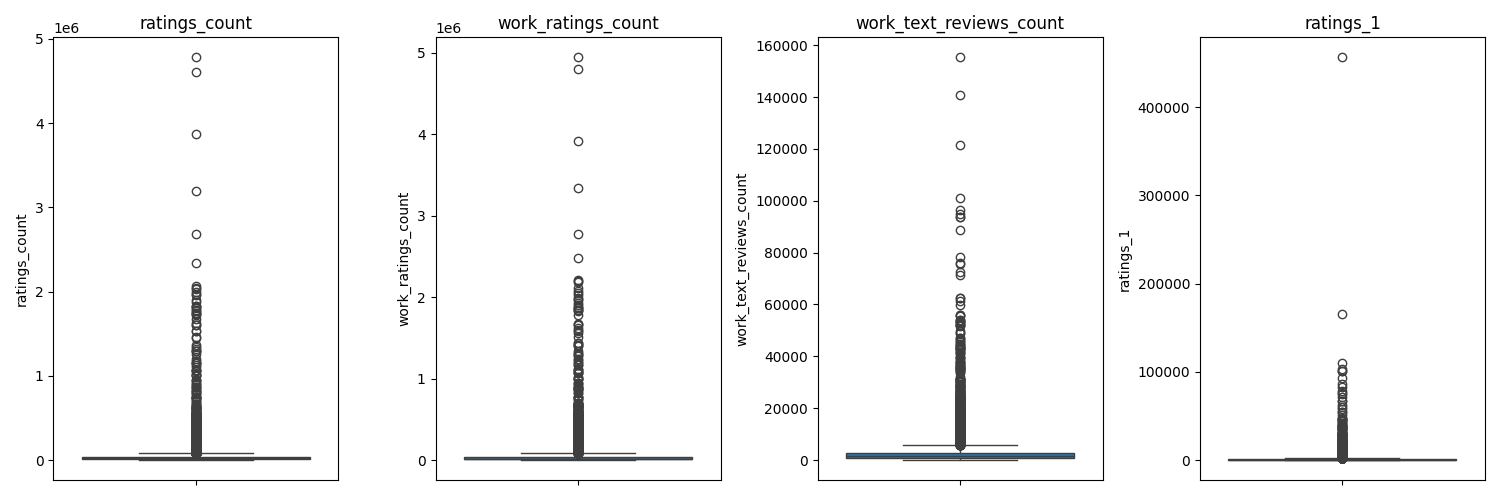
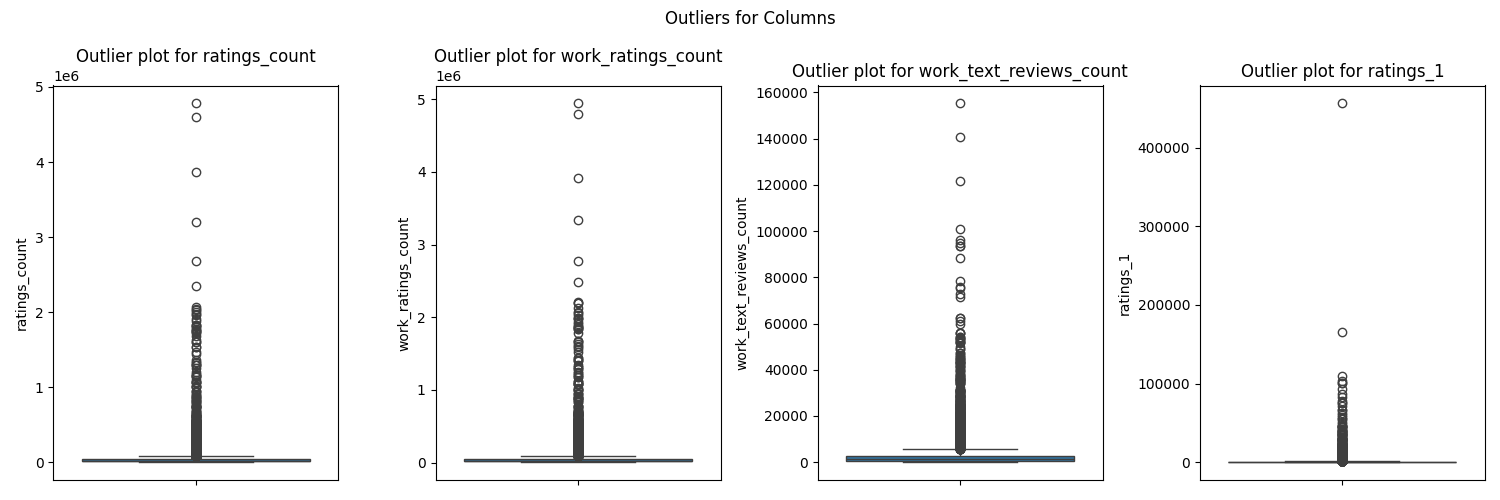
Updated code and new output

diff --git a/autolysis.py b/autolysis.py
@@ -139,10 +139,11 @@ def plot_outliers(df, output_dir, col_per_plot=4):
         for j, col in enumerate(columns[i:min(i + cols_per_plot, num_plots)]):
             if num_plots <= cols_per_plot:
                 sns.boxplot(y=df[col], ax=axes[j])
-                axes[j].set_title(col)
+                axes[j].set_title(f"Outlier plot for {col}")
             else:
                 sns.boxplot(y=df[col], ax=axes[j])
-                axes[j].set_title(col)
+                axes[j].set_title(f"Outlier plot for {col}")
+            plt.suptitle("Outliers for Columns")
         plt.tight_layout()
         plt.savefig(f"{output_dir}/outliers_{i//cols_per_plot + 1}.png")
         files.append(f"outliers_{i//cols_per_plot + 1}.png")
@@ -191,7 +192,7 @@ def generate_correlation_heatmap(df, output_dir, output_file='correlation_heatma
     # Create the heatmap
     plt.figure(figsize=figsize)
     sns.heatmap(corr_matrix, annot=True, fmt=".2f", cmap='coolwarm', cbar=True)
-
+    plt.title("Correlation Heatmap")
     # Save the heatmap
     output_location = os.path.join(output_dir, output_file)
     plt.savefig(output_location, dpi=300, bbox_inches='tight')

diff --git a/happiness/README.md b/happiness/README.md
@@ -1,6 +1,6 @@
 # Happiness Dataset Analysis 
 ## Data Description
-The dataset consists of various countries and their respective data for different years. It includes a measure known as the "Life Ladder," which likely assesses subjective well-being or happiness. Other columns capture economic and social indicators, such as "Log GDP per capita," which indicates the economic status of each country, and "Social support," reflecting community and societal contributions to well-being. Additionally, it includes health metrics like "Healthy life expectancy at birth." Factors influencing personal freedom and societal perceptions, such as "Freedom to make life choices," "Generosity," and "Perceptions of corruption," are also present. Lastly, the dataset features columns for emotional indicators, represented by "Positive affect" and "Negative affect," which provide insights into the overall psychological well-being of the population in each country and year. Overall, this dataset is geared towards analyzing the relationship between various factors and overall life satisfaction across different nations and time periods.
+The dataset consists of various indicators related to well-being and quality of life across different countries and years. The 'Country name' column identifies the country for each row of data. The 'year' column specifies the time period for the recorded metrics. 'Life Ladder' is likely a measure of subjective well-being or happiness. 'Log GDP per capita' reflects the economic performance of a country on a per-person basis, adjusted for inflation. 'Social support' indicates the perceived availability of supportive social networks. 'Healthy life expectancy at birth' measures the average number of years a newborn is expected to live in good health. Indicators like 'Freedom to make life choices' and 'Generosity' assess individual freedoms and altruistic behavior, while 'Perceptions of corruption' reflects trust in government and institutions. Lastly, 'Positive affect' and 'Negative affect' gauge emotional experiences, contributing to an overall picture of well-being in the context of social, economic, and psychological factors. The dataset can be useful for analyzing trends in happiness and quality of life across different regions and times.
 ## Data Overview
 ### Summary Statistics
 | Stat | year | Life Ladder | Log GDP per capita | Social support | Healthy life expectancy at birth | Freedom to make life choices | Generosity | Perceptions of corruption | Positive affect | Negative affect |
@@ -53,38 +53,40 @@ Duplicate Rows: 0
 
 ![alt_text](correlation_heatmap.png)
 ## Analysis Recommendations
-To gain meaningful insights from the dataset with the provided summary statistics, the data analyst can conduct a variety of analyses. Here are 10 recommendations:
+Certainly! Here are 10 analysis recommendations that a data analyst could perform to gain insights from the provided dataset:
 
-1. **Correlation Analysis**: Examine the correlation between the variables, particularly between 'Life Ladder' and other factors such as 'Log GDP per capita', 'Social support', and 'Healthy life expectancy'. This can help identify which factors most strongly relate to life satisfaction.
+1. **Descriptive Statistics**: Start with calculating the mean, median, standard deviation, and range for all numerical variables (e.g., Life Ladder, Log GDP per capita). This will provide an overview of the data distribution.
 
-2. **Regression Analysis**: Perform multiple regression analysis to understand the predictive power of different variables (e.g., 'Log GDP per capita', 'Social support') on 'Life Ladder'. This can help quantify the strength and direction of relationships.
+2. **Correlation Analysis**: Determine the correlation between various factors (e.g., Life Ladder, Log GDP per capita, and Social support) to identify relationships and potential predictors of life satisfaction.
 
-3. **Trend Analysis by Year**: Analyze how the 'Life Ladder' scores have changed over the years. This can involve visualizing trends over time using line plots, which might reveal significant improvements or declines in life satisfaction.
+3. **Time Series Analysis**: Analyze trends over the years for each country to see how the Life Ladder and other variables have changed over time. This can be performed using line plots.
 
-4. **Country Comparisons**: Compare averages of key metrics (e.g., 'Life Ladder', 'Log GDP per capita') across countries to understand which countries perform better or worse and may provide insights into socio-economic status.
+4. **Comparative Analysis**: Compare the Life Ladder across different countries or regions to identify which countries score higher or lower, and explore possible reasons behind these differences (e.g., socioeconomic factors).
 
-5. **Cluster Analysis**: Implement clustering techniques (like K-means or hierarchical clustering) to group countries with similar profiles based on the various indicators. This can identify patterns or forms of groupings among the countries.
+5. **Group By Analysis**: Use group-by functionality to analyze the average Life Ladder score based on categorical features such as country or year, to find insights into how these categories impact life satisfaction.
 
-6. **Impact of Freedom and Generosity**: Investigate how 'Freedom to make life choices' and 'Generosity' contribute to well-being as measured by 'Life Ladder'. This could involve focused correlation or regression analyses on these variables.
+6. **Regression Analysis**: Conduct linear regression to explore how factors like Log GDP per capita, Social support, and Freedom to make life choices predict the Life Ladder score.
 
-7. **Life Ladder Segmentation**: Create segments of countries based on 'Life Ladder' scores (e.g., low, medium, high) and analyze the characteristics of each segment to identify key determinants of higher satisfaction.
+7. **Heatmaps**: Create heatmaps to visualize the correlations between different attributes to identify any strong relationships visually among numerical variables.
 
-8. **Sentiment Analysis**: If applicable, incorporate qualitative data or open responses related to life satisfaction and add a qualitative analysis to complement numerical data insights.
+8. **ANOVA Tests**: If there are distinct groups/categories (e.g., different regions), perform ANOVA tests to see if there are statistically significant differences in Life Ladder scores between these groups.
 
-9. **Visualizations**: Use data visualization tools to create dashboards that showcase the relationships among the variables, such as scatter plots, heat maps, and bar charts, making the findings more accessible.
+9. **Cluster Analysis**: Use clustering techniques (e.g., K-means) to segment countries based on similar characteristics, which could help to identify groups with similar life qualities or socioeconomic factors.
 
-10. **Geospatial Analysis**: If latitude and longitude data is available, perform geospatial analysis to visualize the relationships of life satisfaction with geographical factors, identifying regional trends or anomalies.
+10. **Sentiment/Feature Analysis**: Based on Positive affect and Negative affect, analyze how emotional well-being relates to life satisfaction and what factors contribute to these feelings across different demographics or regions.
 
-These analyses, alone or combined, can provide comprehensive insights into the factors influencing life satisfaction across different countries and years, guiding policy recommendations or further research directions.
+These analyses would provide a comprehensive understanding of how various factors influence life satisfaction and allow the analyst to derive meaningful insights from the dataset.
 ## Data Story
-In a comprehensive analysis of well-being across multiple dimensions from 2005 to 2023, we examined a dataset of 2363 observations that reveals intriguing patterns in life satisfaction, economic conditions, and social factors. The 'Life Ladder', a key indicator of subjective well-being, averaged at 5.48 on a scale where higher values indicate greater life satisfaction. Although the mean score suggests moderate well-being, there is considerable variation, as evidenced by a standard deviation of 1.13 and a minimum value of just 1.28, highlighting a significant disparity in life satisfaction across different populations.
+In exploring the dataset that spans from 2005 to 2023, we uncover a rich tapestry of insights tied to well-being and societal factors across various regions. The average Life Ladder score, which reflects overall life satisfaction, stands at approximately 5.48, suggesting that while many individuals report a moderate sense of well-being, there is significant variability, with scores ranging from a low of 1.28 to a high of 8.02. This variability indicates divergent experiences of quality of life. 
 
-Economic factors are also crucial in understanding life satisfaction. The 'Log GDP per capita' indicates an average economic output per person at 9.40, with an impressive maximum of 11.68 suggesting that wealthier nations likely report higher life satisfaction levels. This is supported by the relationship between economic prosperity and social support, which has a high average score of 0.81. However, with a minimum of 0.23, some individuals lack adequate social support, impacting their overall well-being.
+Looking at economic prosperity, measured by Log GDP per capita, the average value of about 9.40 correlates with life satisfaction; however, the range from 5.53 to 11.68 reveals stark economic disparities across nations. Higher economic metrics often correspond with improved quality of life as indicated by a positive relationship between GDP and life satisfaction.
 
-Health, represented by 'Healthy life expectancy at birth' with a mean of 63.4 years, exemplifies the importance of longevity in life satisfaction. Here too, we see a spread, with some regions having life expectancies as low as 6.72 years, reflecting potential health crises or systemic issues that need addressing.
+Social support emerges as a crucial determinant of well-being, with the average score being 0.81. Strong social networks appear to enhance life satisfaction, highlighting the importance of community and interpersonal relationships. Additionally, the 'Freedom to make life choices' score, averaging 0.75, underscores how personal freedom contributes to a sense of control and fulfillment in life.
 
-The dimension of freedom to make life choices is encapsulated in an average score of 0.75, demonstrating a moderate sense of autonomy among the population, yet indicating that the freedom to make life choices is not universally accessible. Coupled with perceptions of corruption at an average of 0.74, these statistics indicate that societal structures play a significant role in shaping individual experiences of happiness and freedom.
+Healthy life expectancy stands at approximately 63.4 years, which, while promising, suggests room for improvement in health systems worldwide. The data reveals discrepancies in health outcomes that align with economic and social factors.
 
-Another noteworthy aspect of the data is the measure of 'Generosity', which surprisingly has a mean close to zero (0.0001), suggesting that societal giving may not be as pronounced as one might hope. Meanwhile, 'Positive affect' averaged 0.65, indicating that most individuals maintain a positive outlook on life, although this is balanced against a negative affect average of 0.27, revealing the complexity of emotional well-being.
+Generosity and perceptions of corruption present a dual perspective on societal trust and altruism, with generosity averaging close to zero, indicating a general tendency toward self-interest, whereas perceptions of corruption average around 0.74. This suggests that many individuals feel corruption is a significant issue, potentially impacting trust in socio-economic systems.
 
-Overall, this dataset paints a multifaceted portrait of well-being, suggesting that while certain areas like social support and economic factors show positive trends, significant disparities and challenges remain. The interplay between economic stability, social factors, health, and individual freedoms creates a rich tapestry of experiences and implications for policy and social initiatives aimed at enhancing life satisfaction.
+Moreover, the emotional landscape is captured through measures of positive and negative affect. On average, individuals report a positive affect score of 0.65, yet negative affect, with an average of 0.27, indicates that while many experience positive emotions, a notable portion of the population grapples with negative feelings. 
+
+In conclusion, this dataset not only reveals the average sentiments around life satisfaction but also highlights the multifaceted nature of well-being. A complex interplay between economic conditions, social structures, health, freedom, and emotional experiences shapes people's lives around the globe, offering a poignant reminder of the diverse factors that influence human happiness.

diff --git a/goodreads/README.md b/goodreads/README.md
@@ -1,8 +1,12 @@
 # Goodreads Dataset Analysis 
 ## Data Description
-The dataset appears to be a collection of information about books, likely sourced from a platform like Goodreads. Each entry is identified by a unique `book_id` and is associated with other identifiers such as `goodreads_book_id`, `best_book_id`, and `work_id`. It includes metadata about the books, such as the `authors`, `original_title`, and `title`. The dataset also captures publication details, specifically the `original_publication_year` and `language_code`. 
+The dataset appears to contain information about books, likely sourced from a platform like Goodreads. Each row represents a unique book entry, identified by a `book_id` and potentially linked to a Goodreads-specific identifier. The dataset includes various attributes that describe the book, such as `goodreads_book_id`, `best_book_id`, and `work_id`, which may relate to metadata about the book across different formats or editions.
 
-Several columns provide insights into the book's reception and popularity, including `average_rating`, `ratings_count`, and `work_ratings_count`, alongside specific ratings across different categories (1 to 5 stars). There are also columns related to the book's ISBN numbers (`isbn`, `isbn13`) for identification purposes. Visual representation is supported through `image_url` and `small_image_url`, offering links to book cover images. The dataset seems to be structured for analysis or exploration of book popularity and reader feedback.
+Additional attributes provide insights into the book's details, including `isbn` and `isbn13` for international book identifiers, `authors` for the creators of the book, and `original_publication_year` revealing when the book was first published. Information such as `original_title` and `title` captures the book's name.
+
+The dataset also includes several columns related to the book's reception, such as `average_rating`, `ratings_count`, and `work_ratings_count`, which indicate how well the book is perceived and the volume of ratings it has received. The ratings are further broken down into categories from 1 to 5 stars via `ratings_1` through `ratings_5`, providing a detailed view of reader sentiment.
+
+Additionally, the dataset contains visual elements with `image_url` and `small_image_url` for book cover images and supports multilingual aspects with the `language_code`. Overall, this dataset serves as a comprehensive resource for analyzing various aspects of books and their reception in a reading community.
 ## Data Overview
 ### Summary Statistics
 | Stat | book_id | goodreads_book_id | best_book_id | work_id | books_count | isbn13 | original_publication_year | average_rating | ratings_count | work_ratings_count | work_text_reviews_count | ratings_1 | ratings_2 | ratings_3 | ratings_4 | ratings_5 |
@@ -74,48 +78,38 @@ Duplicate Rows: 0
 
 ![alt_text](correlation_heatmap.png)
 ## Analysis Recommendations
-To gain insights from the dataset described, the analyst can perform a variety of analyses. Here are ten recommended analyses:
+Here are 10 analysis recommendations that a data analyst can perform on the given dataset's summary statistics:
 
-1. **Descriptive Statistics**:
-   - Calculate descriptive statistics (mean, median, mode, standard deviation, and range) for numerical variables such as `average_rating`, `ratings_count`, and `work_ratings_count` to understand their distribution.
+1. **Descriptive Statistics**: Calculate descriptive statistics (mean, median, mode, standard deviation) for numerical columns, such as `average_rating`, `ratings_count`, and `work_text_reviews_count`, to get a sense of the distribution and the overall rating trends.
 
-2. **Rating Distribution Analysis**:
-   - Analyze the distribution of the ratings (from `ratings_1` to `ratings_5`) to identify common rating patterns and find out if there are any biases in the ratings.
+2. **Correlation Analysis**: Conduct a correlation analysis between different numerical variables (e.g., `average_rating`, `ratings_count`, and `work_ratings_count`) to identify relationships and potential predictors of book ratings.
 
-3. **Authors' Performance Analysis**:
-   - Aggregate `average_rating` and `ratings_count` by `authors` to identify which authors have the highest rated books and the most engagement based on ratings.
+3. **Rating Distribution Analysis**: Visualize the distribution of ratings (e.g., `ratings_1`, `ratings_2`, ..., `ratings_5`) through histograms or bar charts to understand how readers rate books and to identify any potential biases in the rating system.
 
-4. **Impact of Publication Year**:
-   - Investigate the trend of `average_rating` over the years (using `original_publication_year`) to see if newer books are receiving higher ratings compared to older titles.
+4. **Author Analysis**: Analyze the `authors` variable to determine which authors have the highest average ratings and which authors have the most works in the dataset. Identify trends or patterns among popular authors.
 
-5. **Language Analysis**:
-   - Analyze `average_rating` and `ratings_count` based on `language_code` to see if there are differences in engagement or satisfaction based on the language of the books.
+5. **Publication Year Trend**: Analyze how the average book ratings have changed over time by grouping data by `original_publication_year` and calculating average ratings to spot any trends related to book quality over the years.
 
-6. **Top Rated Books**:
-   - Identify the top-rated books based on `average_rating` and `ratings_count`, providing insight into which books are popular and well-received.
+6. **Language Code Analysis**: Compare average ratings by `language_code` to see if books in certain languages tend to receive better ratings than others. This could provide insights into cultural or regional preferences in reading.
 
-7. **Book Count Analysis**:
-   - Examine the distribution of `books_count` for each author to understand how the number of books published by an author correlates with average ratings and reader engagement.
+7. **Top Rated Books**: Identify and list the top 10 books with the highest `average_rating` and provide additional insights on the `authors`, `original_publication_year`, and `ratings_count` for context.
 
-8. **Correlations**:
-   - Perform correlation analysis between `average_rating`, `ratings_count`, and other numerical variables to identify relationships and potential patterns.
+8. **Image URL Analysis**: Analyze the impact of book cover images (`image_url` and `small_image_url`) on average ratings by collecting qualitative feedback or performing sentiment analysis on user comments or reviews.
 
-9. **Content Analysis**:
-   - Analyze the `original_title` and `title` fields to identify common keywords or phrases in high-rated books, which can provide insights into popular themes or topics.
+9. **Review Count Impact**: Investigate whether there is a correlation between the number of `work_text_reviews_count` and `average_rating`. Assess if higher engagement (more reviews) leads to higher average ratings.
 
-10. **Image URL Analysis**:
-    - Investigate if having high-quality book covers (as indicated by the presence of an image URL) correlates with higher ratings or ratings counts, assessing the impact of marketing on reader engagement.
+10. **ISBN Analysis**: Check the uniqueness and completeness of the `isbn` and `isbn13` fields. Conduct analyses on how the presence of ISBN affects the availability and discoverability of books within the dataset.
 
-These analyses will help the analyst glean valuable insights, uncover trends, and understand factors affecting book ratings and engagement.
+These recommendations will help the analyst gain meaningful insights into the dataset and potentially uncover interesting patterns and trends in book ratings and readership.
 ## Data Story
-In the world of literature, our dataset reveals intriguing insights into a collection of 10,000 books, each contributing to a vibrant and diverse reading experience. The average book in this dataset boasts a Goodreads rating of 4.00, underlining the high level of reader satisfaction, with ratings mostly clustering around four stars. Yet, the range of ratings is telling—across the dataset, books have received as few as 2.47 stars to a maximum of 4.82, indicating some titles spark substantial admiration while others may leave readers wanting.
+In a comprehensive analysis of a dataset consisting of 10,000 books, intriguing insights emerge regarding readership, popularity, and ratings. The dataset spans an impressive range of book IDs from 1 to 10,000, showcasing an average book ID of 5000.5, indicating a comprehensive and diverse catalog.
 
-The ratings distribution highlights an interesting pattern, with 23,789 average five-star ratings across the dataset—the highest among all ratings categories—which suggests that a notable portion of books has achieved critical acclaim. The lowest rated books, in comparison, have only garnered around 1,345 one-star ratings, signaling a significant divide in reader opinions.
+Each book is linked to a Goodreads book ID, with a mean of approximately 5.26 million, reflecting a vast spectrum of titles and interests. Notably, the highest Goodreads book ID reaches over 33 million, highlighting the presence of extremely popular titles within this dataset.
 
-Diving deeper, we find that these books come from varied publication years, with the average publication dating back to 1982. This means our collection spans an impressive historical range, capturing literary voices from multiple generations. The oldest book in the dataset appears to date as far back as 1750, while newer titles continue to captivate modern readers, with some published as recently as 2017.
+Delving deeper, we find that these books have an average of about 75.7 books in each collection, with a maximum collection reaching an astounding 3,455 books. This suggests that a significant number of readers are avid collectors or have an extensive array of reading interests.
 
-The dataset also reveals the depth of engagement readers have with these works. On average, 75.7 books are recorded per reader, a testament to the book-loving habits of this community. Some readers exhibit voracious appetites, with the maximum noted at 3,455 books, indicating an exceptional enthusiasm for exploring literature.
+The original publication years of the books span a wide timeline, with an average year of 1981, but with some books dating back as far as 1750. This indicates a well-rounded collection that includes both contemporary works and historical classics. The average rating across the board sits at 4.00, showcasing a generally positive reception of the books. Ratings are distributed quite evenly, with nearly equal portions of the ratings spread across 1 to 5 stars, but with notably high averages for 4 and 5-star ratings, suggesting that readers predominantly enjoy these books.
 
-Analyzing the Goodreads book IDs, we see that many titles possess a high visibility, with an average Goodreads ID reaching over 5 million, showcasing their presence in a broader reading community. The ratings count further reveals a bustling interaction between books and readers, with average ratings counts around 54,001, illustrating robust reader engagement.
+When we look at the ratings count, the data reveals that the average book has received over 54,000 ratings, with the most-rated book amassing nearly 4.8 million ratings, a testament to its widespread acclaim. Surprisingly, while the average book garners approximately 2,920 text reviews, the maximum number of reviews is sky-high at 155,254, exemplifying the engagement certain titles receive from their readership.
 
-In summary, the dataset paints a rich portrait of literary preferences, reader engagement, and the appreciation of books that span decades. With high average ratings, a diverse range of titles, and active reader interaction, this dataset exemplifies the enduring love for books and their profound impact on reading communities.
+This dataset tells a compelling story of a vibrant literary landscape filled with passionate readers, diverse genres, and significant engagement, inviting further exploration into the nuances of individual titles and their unique impacts on readers.

diff --git a/media/README.md b/media/README.md
@@ -1,6 +1,6 @@
 # Media Dataset Analysis 
 ## Data Description
-The dataset consists of several attributes related to textual or content analysis. The 'date' column likely represents the date of creation or publication, while 'language' may indicate the language of the content. The 'type' column could categorize the content, such as articles, reviews, or posts. The 'title' column presents the title of the content, and 'by' probably identifies the author or creator of the work. The 'overall' column might provide an aggregated score or rating relating to the content's quality or performance. The 'quality' column likely assesses specific quality characteristics of the content, and 'repeatability' may measure how similar content can be generated or replicated. Overall, the dataset appears focused on evaluating and analyzing different aspects of content across various attributes.
+The dataset contains information related to various entries characterized by their date of entry, language, and type. Each entry has a title and is attributed to an author (by). It includes numerical ratings such as overall score, quality assessment, and repeatability, which likely reflect the evaluations or metrics relevant to the entries. The combination of these columns suggests that the dataset could be focused on assessing content, possibly in a review or feedback context across different languages and types of media or documents.
 ## Data Overview
 ### Summary Statistics
 | Stat | overall | quality | repeatability |
@@ -41,34 +41,36 @@ Duplicate Rows: 1
 
 ![alt_text](correlation_heatmap.png)
 ## Analysis Recommendations
-To gain insights from the dataset with the provided summary statistics, the data analyst can perform the following analyses:
+Certainly! Given the dataset's summary statistics, the analyst can perform the following analyses to gain valuable insights:
 
-1. **Time Series Analysis**: Analyze trends over time by aggregating data based on the 'date' field to observe patterns, seasonality, or changes in metrics such as 'overall' rating.
+1. **Trend Analysis over Time**: Analyze how 'overall' and 'quality' scores change over different dates. This can reveal trends in performance or preferences over time.
 
-2. **Language Popularity Analysis**: Examine the 'language' field to determine which languages are most prevalent in the dataset and how they relate to quality and overall ratings.
+2. **Language Distribution**: Explore the distribution of data points by 'language' to understand which languages are most represented and if there are any patterns in 'overall' or 'quality' scores across languages.
 
-3. **Type Comparison**: Explore differences in ratings or quality based on the 'type' of entries (e.g., articles, videos, etc.), potentially using box plots to visualize the distributions.
+3. **Type Analysis**: Examine the data stratified by 'type' (e.g., article, review, etc.) to identify how different types affect metrics like 'overall' and 'quality'.
 
-4. **Sentiment Analysis Based on Titles**: Perform sentiment analysis on the 'title' field to identify whether the sentiment correlates with ratings of 'overall' and 'quality'.
+4. **Author Performance**: Analyze the 'by' field to assess the performance of different authors based on their average 'overall' and 'quality' ratings, helping identify high or low performers.
 
-5. **User Contribution Analysis**: Analyze the 'by' field to find out which contributors are associated with higher ratings, and investigate their contribution volume versus quality.
+5. **Correlation Analysis**: Calculate correlation coefficients between 'overall', 'quality', and 'repeatability' to assess whether repeatability influences quality and overall scores.
 
-6. **Correlation Analysis**: Compute correlation coefficients between 'overall', 'quality', and 'repeatability' to understand relationships between these variables.
+6. **Sentiment Analysis on Titles**: Perform sentiment analysis on the 'title' field to determine how sentiment correlates with 'overall' scores, which may provide insights on how positive or negative titles impact experiences.
 
-7. **Quality Rating Distribution**: Visualize the distribution of the 'quality' ratings through histograms or density plots to identify skewness or outliers in data.
+7. **Categorical Distribution Analysis**: Create visualizations (like bar charts) to show the distribution of 'overall' scores across different categories of 'language', 'type', or 'by', identifying any significant disparities.
 
-8. **Grouped Statistics**: Group the data by 'language' or 'type' and calculate aggregate statistics (mean, median) for 'overall' and 'quality' ratings to identify standout groups.
+8. **Box Plots for Quality Assessment**: Use box plots to visualize the distribution of 'quality' ratings across different languages or types, highlighting any outliers and providing insights into quality variability.
 
-9. **Repeatability Assessment**: Analyze 'repeatability' ratings against 'quality' and 'overall' to determine if there is a significant relationship, possibly through regression analysis.
+9. **Repeatability Impact Assessment**: Investigate how 'repeatability' affects the 'overall' score by conducting a regression analysis, possibly indicating how often the same user returns and its impact on quality perception.
 
-10. **Text Analysis of Titles**: Use techniques such as word frequency analysis or topic modeling on the 'title' field to identify common themes or keywords that predict higher ratings.
+10. **Temporal Patterns**: Conduct a seasonal analysis to determine whether certain times of year tend to yield higher or lower 'overall' and 'quality' scores, looking into potential cyclic trends.
 
-By conducting these analyses, the data analyst can extract valuable insights and understand the underlying trends, relationships, and characteristics within the dataset.
+These analyses will help the data analyst extract meaningful insights and formulate data-driven recommendations or strategies based on the identified trends and patterns.
 ## Data Story
-In analyzing a dataset of 2652 observations, a compelling narrative unfolds regarding the subjects' overall experiences, perceived quality, and repeatability metrics. The overall mean rating stands at approximately 3.05, indicating a slight tendency towards favorable responses, although the level of satisfaction is somewhat muted. This is mirrored in the quality metrics, where the mean score is slightly higher at about 3.21, showcasing that while respondents generally hold a positive view of quality, it still reflects a mixed landscape filled with varying levels of satisfaction.
+In analyzing a dataset comprising responses from 2,652 individuals, several intriguing insights emerged that provide a glimpse into the overall perceptions of quality and repeatability. 
 
-Diving deeper, we observe consistency in the data, with 75% of the respondents rating the overall experience between 3 and 5, suggesting that a majority find value in what is being assessed. However, the presence of outliers at the lower end—like the recorded minimum of 1—indicates that there are significant dissenting opinions, driving important considerations for improvement.
+When we look at the overall ratings, the average score stands at approximately 3.05, suggesting a moderate level of satisfaction among respondents. The standard deviation of 0.76 highlights a reasonable spread in the responses, with the ratings spanning from a minimum of 1 to a maximum of 5. Notably, a quarter of the respondents provided scores of 3 or lower, indicating that while many find the service satisfactory, a significant portion remains underwhelmed.
 
-Contrastingly, repeatability scores present a different story; the mean sits at approximately 1.49, indicating that just about half of the respondents acknowledge even a modest level of repeatability in their experiences. The data reveals that a staggering 75% of the individuals rated repeatability as 1 or 2, suggesting that many do not foresee themselves engaging with the offering again. This raises critical questions about sustainability and long-term engagement for the subjects involved.
+Diving deeper into quality, the average score rises to around 3.21. This slightly higher mean, coupled with a standard deviation of 0.80, reflects a trend where more respondents are leaning towards positive experiences. A majority (75%) rated the quality at 4 or below, suggesting that while quality is perceived positively, there’s still considerable room for improvement.
 
-In conclusion, while there is a foundation of positive perceptions regarding overall experiences and quality, the stark results concerning repeatability unveil a challenge that demands attention. Understanding the factors contributing to these sentiments could hold the key to enhancing future interactions and fostering lasting relationships with the audience.
+The repeatability metric, however, tells a different story. Scoring an average of just 1.49 presents a stark contrast. This low mean, alongside a standard deviation of 0.60, indicates that many respondents found their experiences less likely to be repeated. A significant number of respondents (over 75%) rated their likelihood to repeat at or below 1, highlighting a troubling sentiment regarding brand loyalty or satisfaction with repeat experiences.
+
+Overall, this dataset paints a nuanced picture: while quality perceptions are somewhat positive, there remains a significant gap in customers' willingness to return. Addressing the factors behind this low repeatability could be critical for organizations looking to enhance customer satisfaction and foster loyalty.
